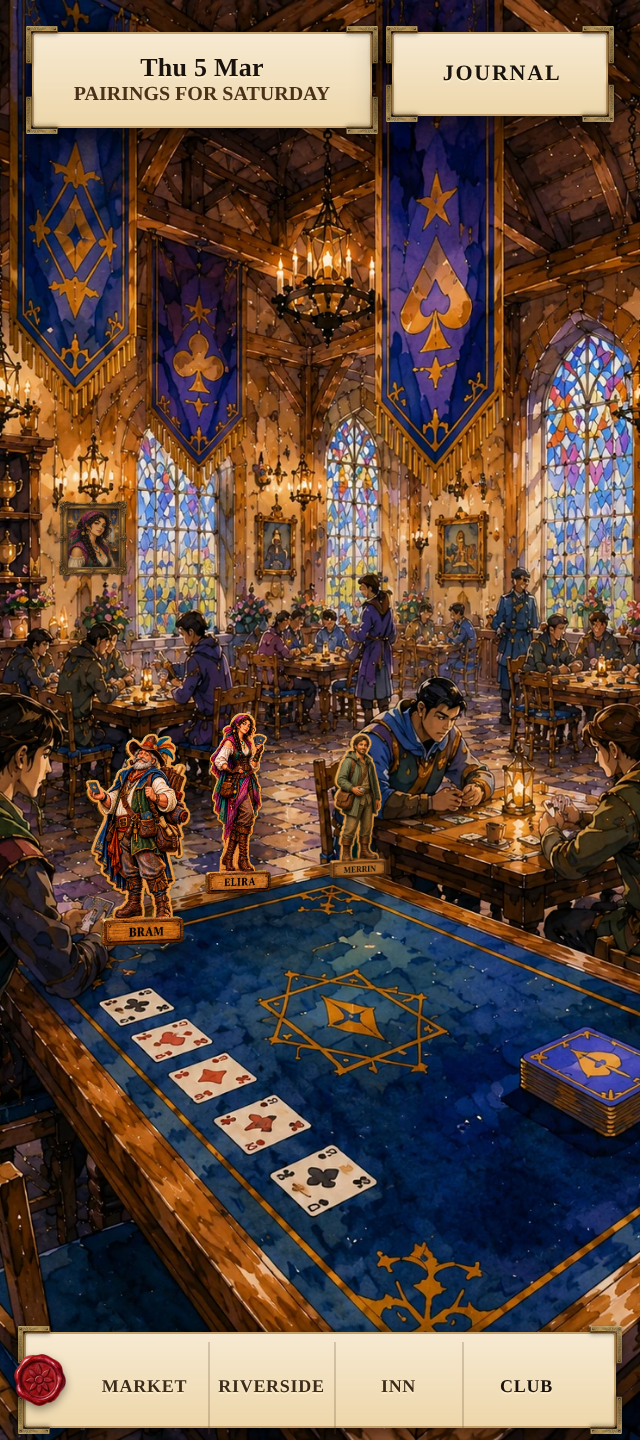
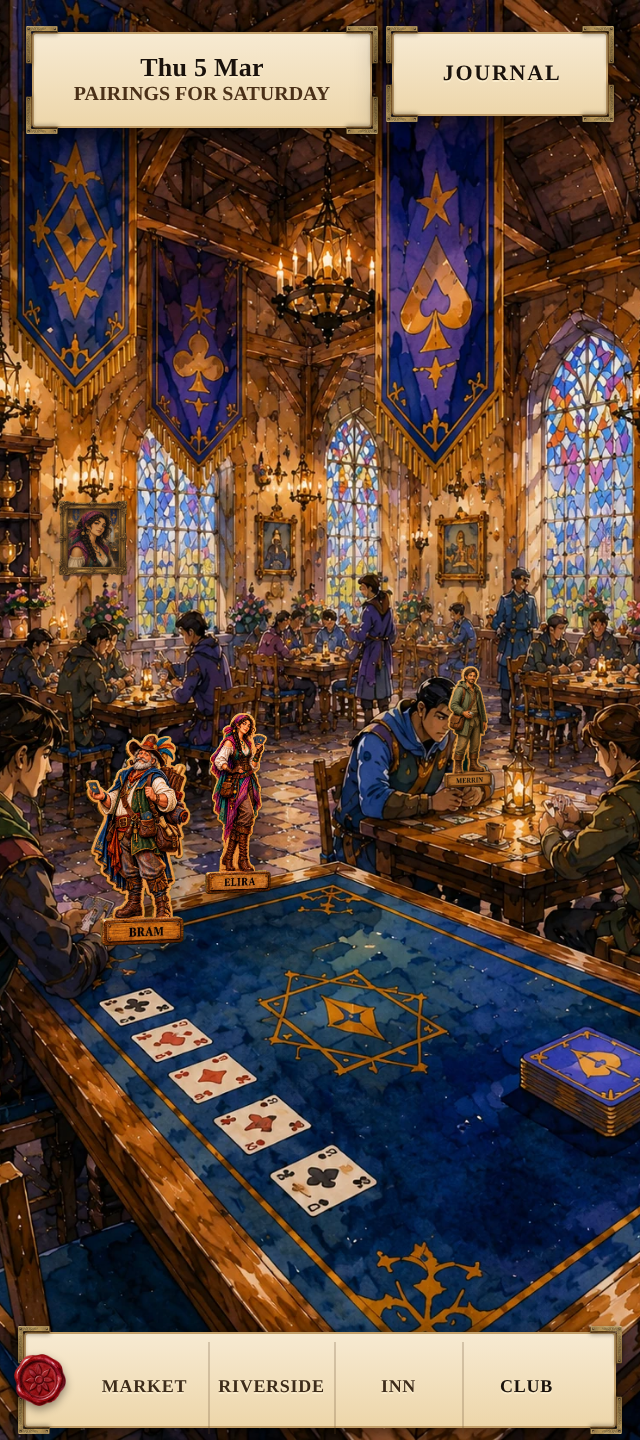
Place Saturday Merrin on the blue-dot floor beside Bram.
Tomas leaves the front-left Club pin and stands smaller on the right.
Nessa shifts right to match the hall photo. Merrin takes the vacated
floor mark on Saturday; weekdays he still uses the reserved right pin.

Changed region(s): [[0.6875, 0.4375, 0.7812, 0.5625], [0.5, 0.5, 0.5938, 0.625]]

diff --git a/index.html b/index.html
@@ -7908,9 +7908,11 @@ if ('serviceWorker' in navigator) {
 
 .townScene[data-location="Card Club"] [data-slot="0"]{--slot-x:6.7%;--slot-bottom:33.4%;--slot-scale:.82;--slot-z:22}
 .townScene[data-location="Card Club"] [data-slot="1"]{--slot-x:22.3%;--slot-bottom:37.1%;--slot-scale:.70;--slot-z:23}
-.townScene[data-location="Card Club"] [data-slot="2"]{--slot-x:58.1%;--slot-bottom:44.7%;--slot-scale:.47;--slot-z:18}
+.townScene[data-location="Card Club"] [data-slot="2"]{--slot-x:67.4%;--slot-bottom:42.0%;--slot-scale:.52;--slot-z:18}
 .townScene[data-location="Card Club"] [data-slot="3"]{--slot-x:31.8%;--slot-bottom:47.7%;--slot-scale:.38;--slot-z:17}
-.townScene[data-location="Card Club"] [data-slot="4"]{--slot-x:40.8%;--slot-bottom:38.4%;--slot-scale:.56;--slot-z:20}
+.townScene[data-location="Card Club"] [data-slot="4"]{--slot-x:58.1%;--slot-bottom:44.7%;--slot-scale:.47;--slot-z:18}
+.townScene[data-location="Card Club"][data-saturday="open"] [data-slot="0"]{--slot-x:56.6%;--slot-bottom:43.8%;--slot-scale:.44;--slot-z:17}
+.townScene[data-location="Card Club"][data-saturday="open"] [data-slot="4"]{--slot-x:14.0%;--slot-bottom:35.8%;--slot-scale:.68;--slot-z:24}
 
 @media(max-width:620px){
   .townScene .tomasCutout,

diff --git a/service-worker.js b/service-worker.js
@@ -1,4 +1,4 @@
-const CACHE_NAME = 'card-road-pwa-v132-week-traveller';
+const CACHE_NAME = 'card-road-pwa-v134-traveller-dot';
 const CORE_ASSETS = [
   './index.html',
   './manifest.webmanifest',
